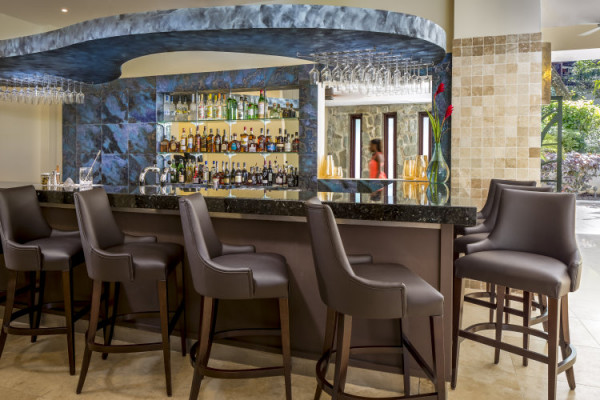
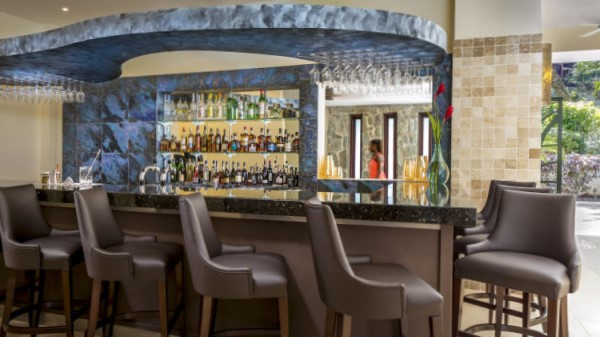
Adding files

diff --git a/bay.html b/bay.html
@@ -124,22 +124,22 @@
     <div class="container">
       <div class="mySlides">
         <div class="numbertext">1 / 6</div>
-        <img src="images/glass.jpg" style="width:100%">
+        <img src="images/inside.jpeg" width="990px" height="340px"style="width:100%">
       </div>
     
       <div class="mySlides">
         <div class="numbertext">2 / 6</div>
-        <img src="images/nut.jpg" style="width:100%">
+        <img src="images/bar.jpg" width="990px" height="340px" style="width:100%">
       </div>
     
       <div class="mySlides">
         <div class="numbertext">3 / 6</div>
-        <img src="img_mountains_wide.jpg" style="width:100%">
+        <img src="images/glass.jpg" style="width:100%">
       </div>
         
       <div class="mySlides">
         <div class="numbertext">4 / 6</div>
-        <img src="img_lights_wide.jpg" style="width:100%">
+        <img src="images/nut.jpg" style="width:100%">
       </div>
     
       <div class="mySlides">
